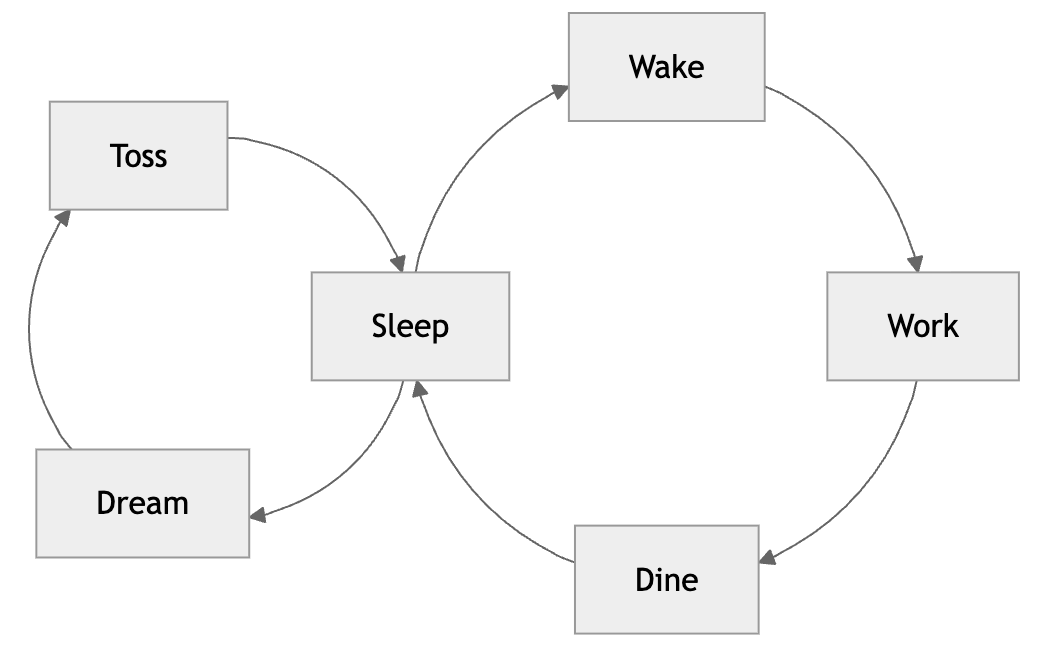
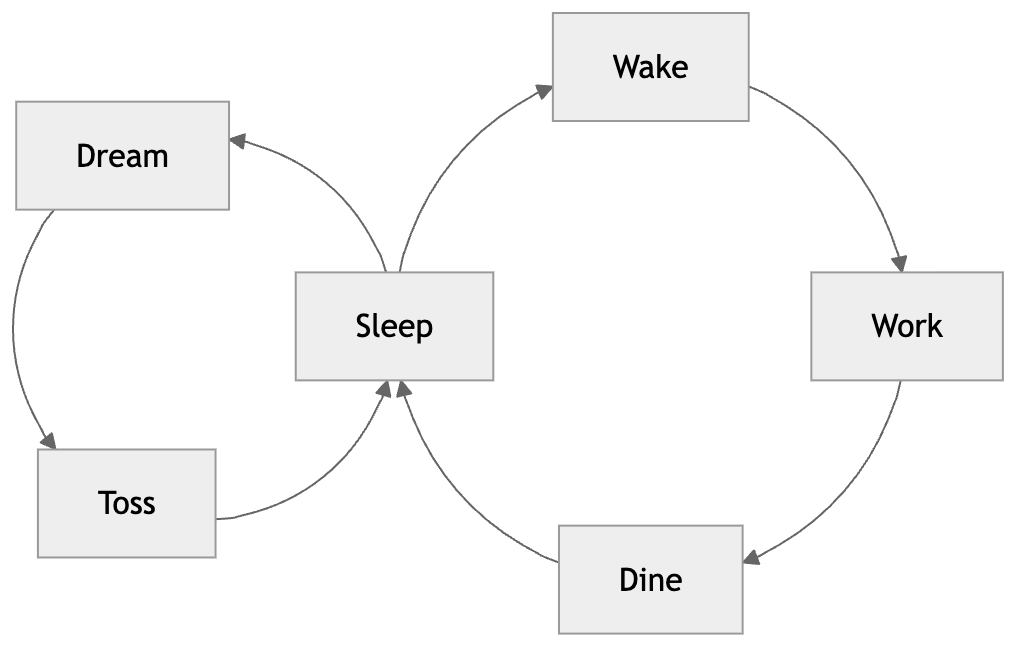
docs: the pictures turn with the gears
The figure-eight screenshot regenerated to show the counter-rotating
dream loop that now ships, and the three-gear train joins the gallery
with its source.

(generated using Claude Fable 5)

diff --git a/README.md b/README.md
@@ -154,7 +154,8 @@ flowchart LR
 ![A four-node product loop with a debug triangle drawn as its own smaller circle beyond Build](docs/media/satellite-ring.png)
 
 Two cycles sharing a node draw as a figure-eight, the circles
-genuinely tangent at the shared node:
+genuinely tangent at the shared node — and the smaller circle flows
+against the main ring, the way meshing gears turn:
 
 ```
 ---
@@ -170,7 +171,23 @@ flowchart LR
 
 The largest cycle keeps the middle, and the nesting recurses — a
 circle hanging off a circle hanging off a circle walks outward, each
-ring a true circle of its own.
+ring a true circle of its own, chains of meshed loops alternating
+direction like a gear train:
+
+```
+---
+config:
+  layout: circular
+---
+flowchart LR
+  A[Mine] --> B[Smelt] --> C[Cast] --> D[Sell] --> E[Invest] --> A
+  B --> F[Scrap]
+  F --> G[Sort] --> B
+  F --> H[Shred]
+  H --> I[Melt] --> F
+```
+
+![A five-node ring meshed with a second loop, which is meshed with a third, each spinning against the last](docs/media/three-gears.png)
 
 ## Usage
 
